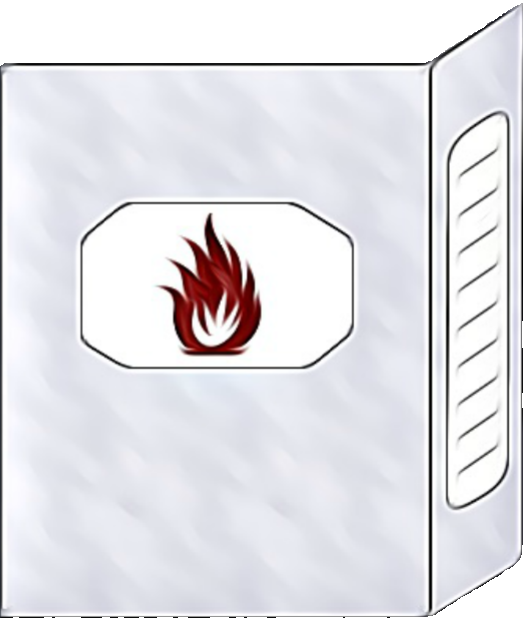
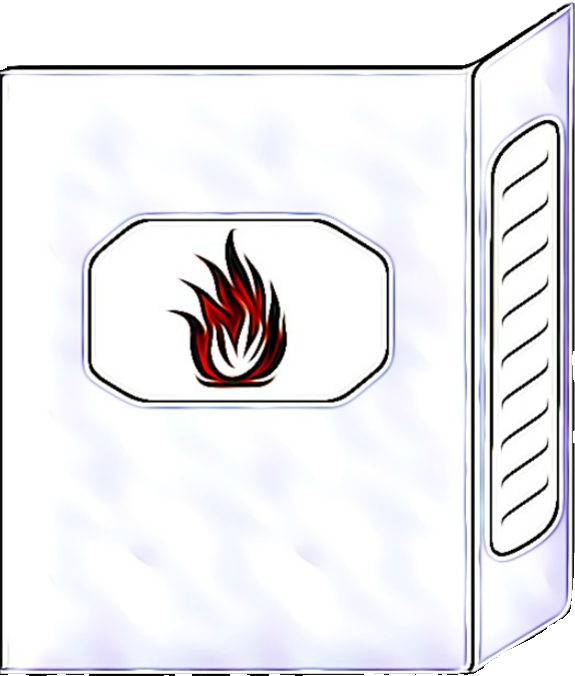
Updated matchbox images

diff --git a/Priority_2_Thermodynamics/Flammable_Steel/js/main.js b/Priority_2_Thermodynamics/Flammable_Steel/js/main.js
@@ -17,7 +17,7 @@ var STEEL4_URL = "https://github.com/DTV96Calibre/InquiryActivities/blob/master/
 var STEEL_FIRE_URL = "https://github.com/DTV96Calibre/InquiryActivities/blob/master/Priority_2_Thermodynamics/Flammable_Steel/images/steelwool-fire.png?raw=true";
 var MATCH_UP_URL = "https://github.com/DTV96Calibre/InquiryActivities/blob/master/Priority_2_Thermodynamics/Flammable_Steel/images/matchstick-up.png?raw=true";
 var MATCH_DOWN_URL = "https://github.com/DTV96Calibre/InquiryActivities/blob/master/Priority_2_Thermodynamics/Flammable_Steel/images/matchstick-down.png?raw=true";
-var MATCHBOX_URL = "https://github.com/DTV96Calibre/InquiryActivities/blob/master/Priority_2_Thermodynamics/Flammable_Steel/images/matchboxnew.png?raw=true";
+var MATCHBOX_URL = "https://github.com/DTV96Calibre/InquiryActivities/blob/master/Priority_2_Thermodynamics/Flammable_Steel/images/matchbox.png?raw=true";
 var MATCHBOX_COVER_URL = "https://github.com/DTV96Calibre/InquiryActivities/blob/master/Priority_2_Thermodynamics/Flammable_Steel/images/matchbox-cover.png?raw=true";
 
 /************************ Onscreen elements ********************************/
@@ -114,7 +114,7 @@ function draw() {
   matchbox.drawBottom();
   matchstick.draw();
   fire.update();
-  // matchbox.drawCover();
+  matchbox.drawCover();
 }
 
 /*
